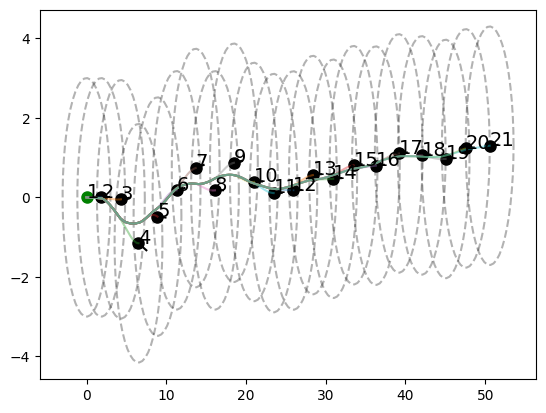
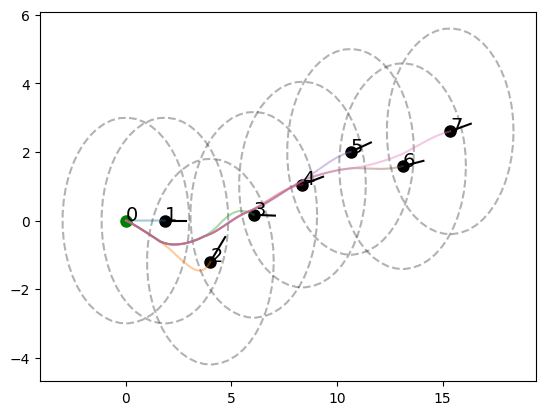
added more plotting capabilities

diff --git a/plot_fields.py b/plot_fields.py
@@ -1,5 +1,6 @@
 import matplotlib.pyplot as plt
 from matplotlib import cm
+from matplotlib.patches import FancyArrow
 import numpy as np
 
 class FieldPlotter():
@@ -54,12 +55,12 @@ class FieldPlotter():
     for beacon_ID, drone_config in self.config_dict.items():
       x_i, _, _, _, d_perf_i, d_none_i, xi_max_i = drone_config.values()
       XI_i = FieldPlotter.__xi(x_i, d_perf_i, d_none_i, xi_max_i, X, Y)
-      Z += FieldPlotter.__U_i(
+      Z += FieldPlotter.get_U_i(
         *drone_config.values(),
         X,
         Y,
       )*(XI_i > self.neigh_RSSI_threshold)
-      ax.scatter(*drone_config["x"], color="blue" if not beacon_ID == 1 else "green", zorder=100)
+      ax.scatter(*drone_config["x"], color="blue" if not beacon_ID == 0 else "green", zorder=100)
 
     surf = ax.plot_surface(
         X,
@@ -75,22 +76,24 @@ class FieldPlotter():
 
   def plot_force_field(self):
 
-    X, Y, _= self.__init_X_Y_Z(0.25)
+    X, Y, _= self.__init_X_Y_Z(0.5)
     U, V = np.zeros(X.shape), np.zeros(Y.shape)
 
-    fig, ax = plt.subplots()
+    _, ax = plt.subplots()
     ax.set_xlabel("x [m]")
     ax.set_ylabel("y [m]")
 
     for beacon_ID, drone_config in self.config_dict.items():
-      x_i, _, _, _, d_perf_i, d_none_i, xi_max_i = drone_config.values()
-      temp_U, temp_V = FieldPlotter.__F_i(*drone_config.values(), X, Y)
+      x_i, _, _, v_i, d_perf_i, d_none_i, xi_max_i = drone_config.values()
+      temp_U, temp_V = FieldPlotter.get_F_i(*drone_config.values(), X, Y)
 
       XI_i = FieldPlotter.__xi(x_i, d_perf_i, d_none_i, xi_max_i, X, Y)
       U += temp_U*(XI_i > self.neigh_RSSI_threshold)
       V += temp_V*(XI_i > self.neigh_RSSI_threshold)
 
-      ax.scatter(*drone_config["x"], color="blue" if not beacon_ID == 1 else "green", zorder=100)
+      v_i = v_i.reshape(2,)
+      ax.add_patch(FancyArrow(x_i[0], x_i[1], v_i[0], v_i[1], color="green"))  
+      ax.scatter(*drone_config["x"], color="blue" if not beacon_ID == 0 else "green", zorder=100)
 
     ax.quiver(X, Y, U, V, alpha=0.5)
 
@@ -113,14 +116,35 @@ class FieldPlotter():
     return xi_is
 
   @staticmethod
-  def __U_i(x_i, k_i, a_i, v_i, d_perf_i, d_none_i, xi_max_i, X, Y):
+  def get_U_i(x_i, k_i, a_i, v_i, d_perf_i, d_none_i, xi_max_i, X, Y):
     x_component = X - a_i*(np.ones(X.shape)*x_i[0] + v_i[0]*FieldPlotter.__xi(x_i, d_perf_i, d_none_i, xi_max_i, X, Y))
     y_component = Y - a_i*(np.ones(Y.shape)*x_i[1] + v_i[1]*FieldPlotter.__xi(x_i, d_perf_i, d_none_i, xi_max_i, X, Y))
     return (1/2)*k_i*(x_component**2 + y_component**2)
 
   @staticmethod
-  def __F_i(x_i, k_i, a_i, v_i, d_perf_i, d_none_i, xi_max_i, X, Y):
+  def get_F_i(x_i, k_i, a_i, v_i, d_perf_i, d_none_i, xi_max_i, X, Y):
     F_x = -k_i*(X - a_i*(np.ones(X.shape)*x_i[0] + v_i[0]*FieldPlotter.__xi(x_i, d_perf_i, d_none_i, xi_max_i, X, Y)))
     F_y = -k_i*(Y - a_i*(np.ones(Y.shape)*x_i[1] + v_i[1]*FieldPlotter.__xi(x_i, d_perf_i, d_none_i, xi_max_i, X, Y)))
     return F_x, F_y
     
+
+if __name__ == "__main__":
+
+  k, a = 1, 1
+  d_perf = 1
+  d_none = 1.1
+  xi_max = 10
+
+  x_0 = np.zeros((2, 1))
+
+  v = np.array([-1, 0])
+
+  X, Y = np.meshgrid(
+    np.linspace(-5, 5, 20),
+    np.linspace(-5, 5, 20)
+  )
+
+  U, V = FieldPlotter.get_F_i(x_0, k, a, v, d_perf, d_none, xi_max, X, Y)
+  fig, ax = plt.subplots()
+  ax.quiver(X, Y, U, V, alpha=0.5)
+  plt.show()

diff --git a/deployment/exploration_strategies/line_explore.py b/deployment/exploration_strategies/line_explore.py
@@ -29,7 +29,8 @@ class LineExplore(ExplorationStrategy):
 
     land_due_to_no_neighs = False
 
-    F_n, F_o = np.zeros((2, )), np.zeros((2, ))
+    F_n = np.zeros((2, ))
+    F_o = gof(self.K_o, MIN, ENV)
 
     x_is = np.concatenate([b.pos.reshape(2, 1) for b in beacons], axis=1)
     xi_is = np.array([MIN.get_xi_to_other_from_model(b) for b in beacons])
@@ -71,7 +72,7 @@ class LineExplore(ExplorationStrategy):
            "Conditions on constants a_i and k_i do not hold. Cannot guarantee x_{n+1} > x_{n}"
         
         F_n = -np.sum(k_is*(MIN.pos[0] - a_is*(x_is + xi_is)))
-        F_o = 0*gof(self.K_o, MIN, ENV)[0]
+        F_o = 0*F_o[0]
       
       elif self.kind == LineExploreKind.TWO_DIM_GLOBAL:
         k_is = np.zeros(len(beacons))
@@ -79,7 +80,6 @@ class LineExplore(ExplorationStrategy):
         x_is = np.concatenate([b.pos.reshape(2, 1) for b in beacons], axis=1)
         xi_is = np.array([MIN.get_RSSI(b) for b in beacons])*np.ones((2, 1))
         F_n = -np.sum(k_is*(MIN.pos.reshape(2, 1) - (x_is + xi_is)), axis=1).reshape(2, )
-        F_o = gof(self.K_o, MIN, ENV)
    
     else:
       """ LOCAL METHODS """
@@ -130,7 +130,7 @@ class LineExplore(ExplorationStrategy):
             """
             
           F_n = np.array([-np.sum(k_is*(MIN.pos[0] - a_is*(x_is + xi_is))), 0])
-          F_o = 0*gof(self.K_o, MIN, ENV)
+          F_o = 0*F_o
 
         else:
           """ Behdads gain approach """
@@ -142,23 +142,21 @@ class LineExplore(ExplorationStrategy):
           ], axis=1)
 
           F_n = -np.sum(k_is*(MIN.pos.reshape(2, 1) - a_is*(x_is + xi_is*v_is)), axis=1).reshape(2, )
-          F_o = gof(self.K_o, MIN, ENV)
+          F_o = 0*F_o
 
           MIN.a = np.min(a_is) + 1
           MIN.k = 1
-          rot_mat_2D = lambda theta: np.array([
-            [np.cos(theta), -np.sin(theta)],
-            [np.sin(theta),  np.cos(theta)],
-          ])
-          v_i_base = np.array([1, 0]).reshape(2, 1)
-
-          F = F_n + F_o
-          
-          MIN.v = rot_mat_2D(MIN.heading + (np.pi/2)*np.random.uniform(-1, 1))@v_i_base
       
     F = F_n + F_o
     at_landing_condition = land_due_to_no_neighs or np.linalg.norm(F) < self.force_threshold
     if at_landing_condition:
+      rot_mat_2D = lambda theta: np.array([
+        [np.cos(theta), -np.sin(theta)],
+        [np.sin(theta),  np.cos(theta)],
+      ])
+      v_i_base = np.array([1, 0]).reshape(2, 1)
+      MIN.v = rot_mat_2D(MIN.heading + (np.pi/2)*np.random.uniform(-1, 1))@v_i_base
+  
       print(np.rad2deg(np.arctan2(MIN.v[1], MIN.v[0])), MIN.ID)
       raise AtLandingConditionException
     return F

diff --git a/main.py b/main.py
@@ -24,6 +24,9 @@ def simulate(dt, mins, scs, env):
   scs.insert_into_environment(env)
   beacons = np.array([scs], dtype=object)
 
+  dists_to_prev = np.zeros((len(mins)))
+  dists_bar = np.zeros(len(mins))
+
   for m in mins:
     m.insert_into_environment(env)
     while not m.state == MinState.LANDED:
@@ -32,9 +35,20 @@ def simulate(dt, mins, scs, env):
     for b in beacons:
       b.compute_neighbors(beacons)
     print(f"min {m.ID} landed at pos\t\t\t {m.pos}")
+
+
+    dists_to_prev[m.ID - 1] = np.linalg.norm(beacons[-1].pos - beacons[-2].pos)
+    dists_bar[m.ID - 1] = np.sum(dists_to_prev)/(len(beacons) - 1)
+
     if not m.deployment_strategy.get_target() is None:
           print(f"Its target now has {len(m.deployment_strategy.get_target().neighbors)} neighs\n------------------", )
   print(f"minimum number of neighbors: {min(beacons, key=lambda b: len(b.neighbors))}")
+
+  print("D")
+  print(dists_to_prev)
+  print("D_bar")
+  print(dists_bar)
+  print("---")
   return beacons
 
 if __name__ == "__main__":
@@ -52,28 +66,11 @@ if __name__ == "__main__":
 
   max_range = 3
 
-  N_mins = 20
+  N_mins = 7
   dt = 10e-4
 
   scs = SCS(max_range)
-  """ Potential fields exploration
-  mins = [
-    Min(
-      max_range,
-      DeploymentFSM(
-        AttractiveFollow(
-          K_o = 0.001,
-          same_num_neighs_differentiator=lambda MINs, k: min(MINs, key=k)
-        ),
-        PotentialFieldsExplore(
-          K_n=1,
-          K_o=1,
-          min_force_threshold=0.1
-        )
-      )
-    ) for _ in range(N_mins)
-  ]
-  """
+
   """ Line exploration """
 
   mins = [

diff --git a/beacons/beacon.py b/beacons/beacon.py
@@ -2,7 +2,7 @@ import numpy as np
 
 class Beacon():
 
-  ID_counter = 1
+  ID_counter = 0
 
   @staticmethod
   def get_ID():
